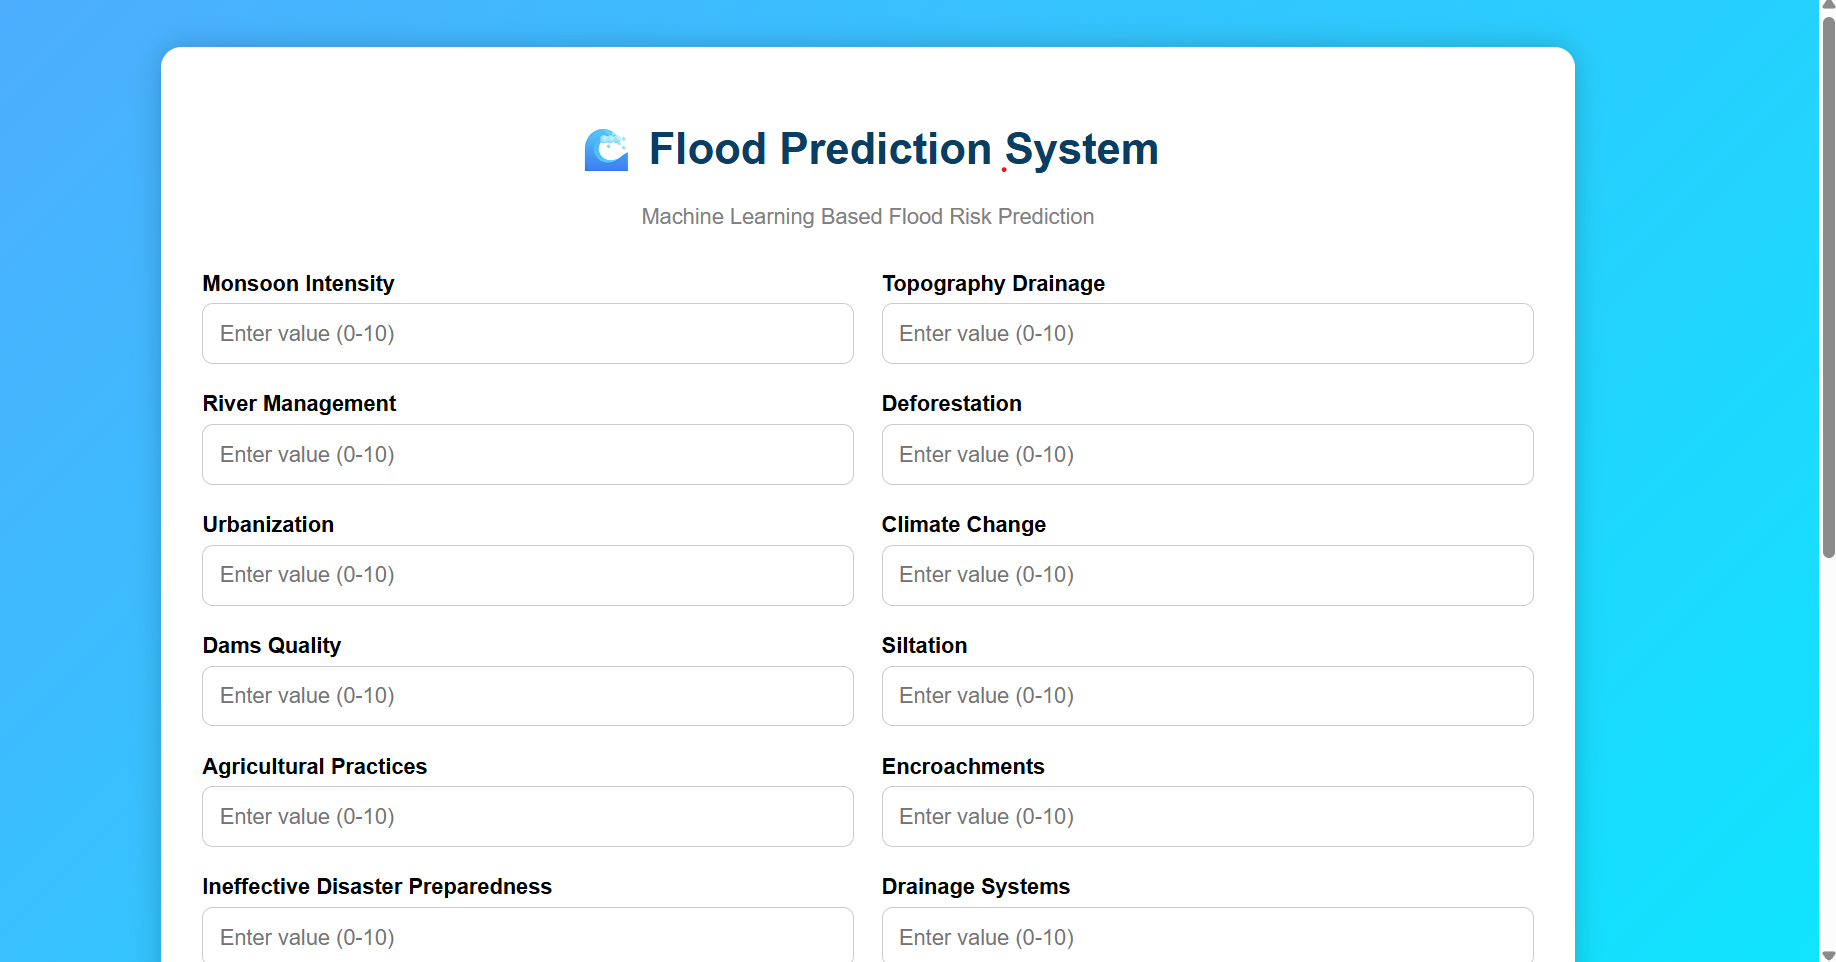
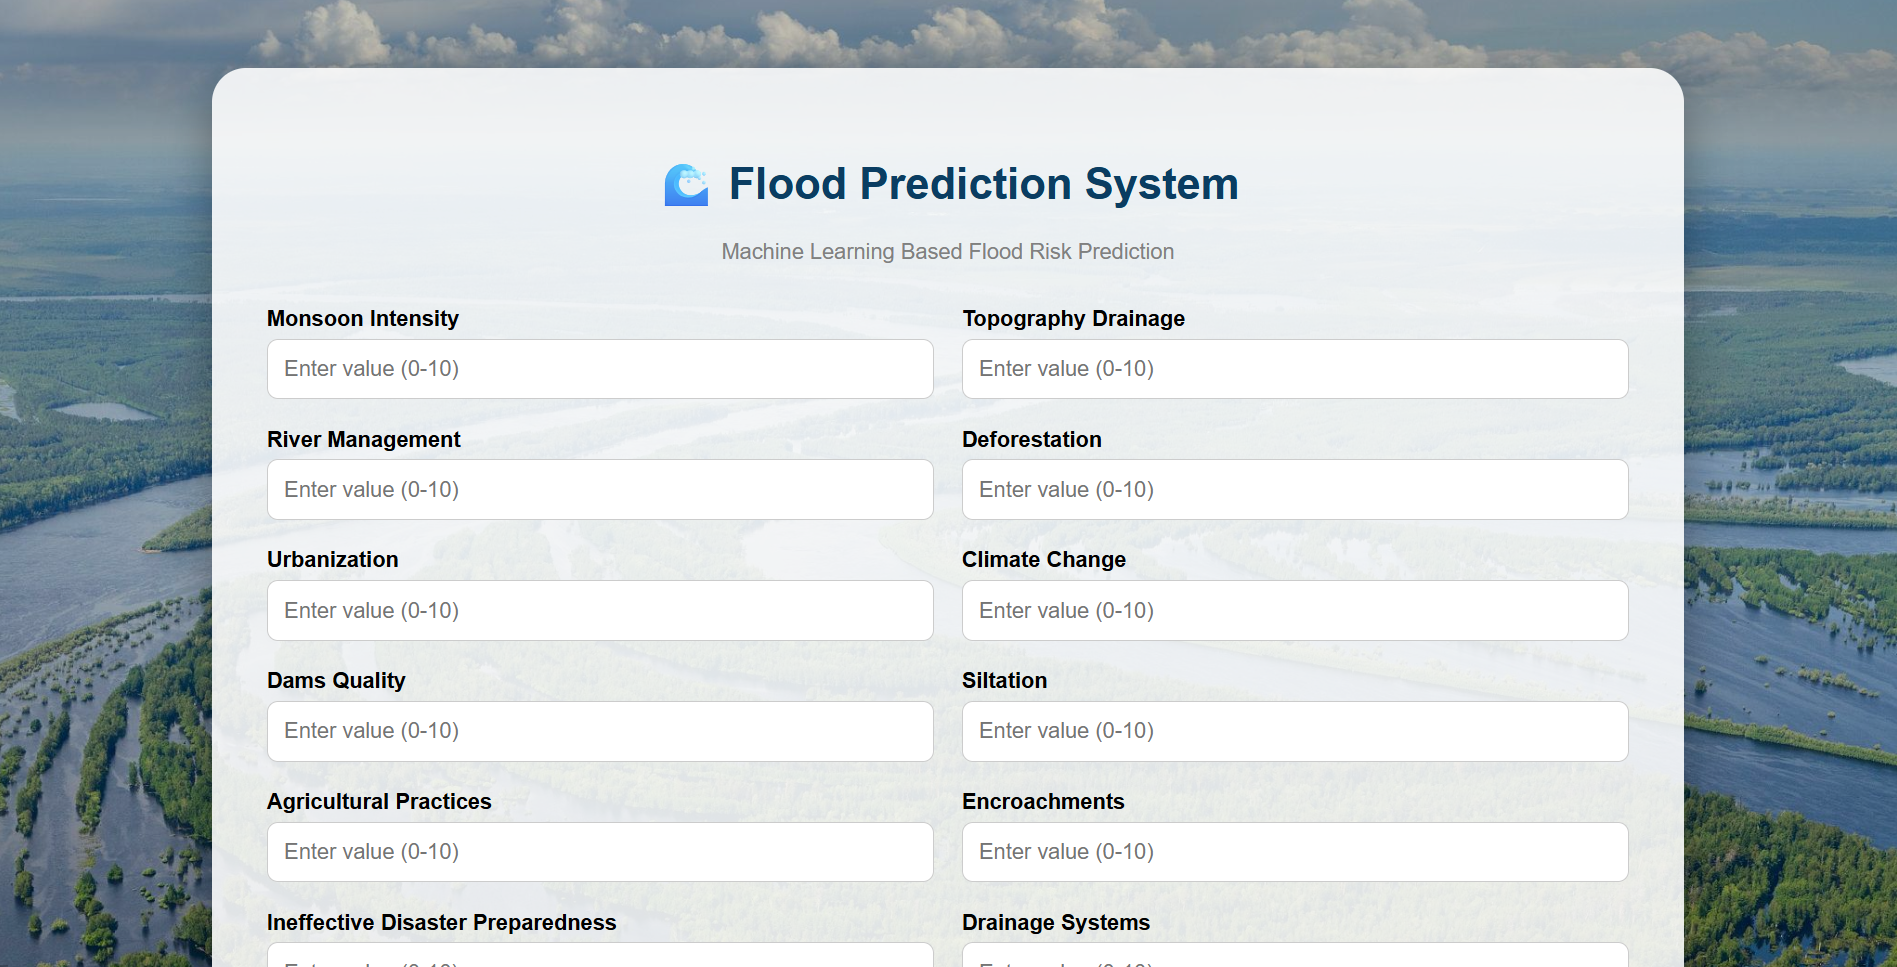
Update home page and screenshots

diff --git a/app.py b/app.py
@@ -16,8 +16,8 @@ def home():
 
 @app.route("/predict", methods=["POST"])
 def predict():
-    
-        features = [
+
+    features = [
         float(request.form["MonsoonIntensity"]),
         float(request.form["TopographyDrainage"]),
         float(request.form["RiverManagement"]),
@@ -41,17 +41,15 @@ def predict():
     ]
 
     features = np.array(features).reshape(1, -1)
-
     features = scaler.transform(features)
-   
 
     prediction = model.predict(features)
-    
-    
+
     if prediction[0] == 1:
         result = "High Flood Risk"
     else:
         result = "Low Flood Risk"
+
     return render_template("result.html", prediction=result)
 
 